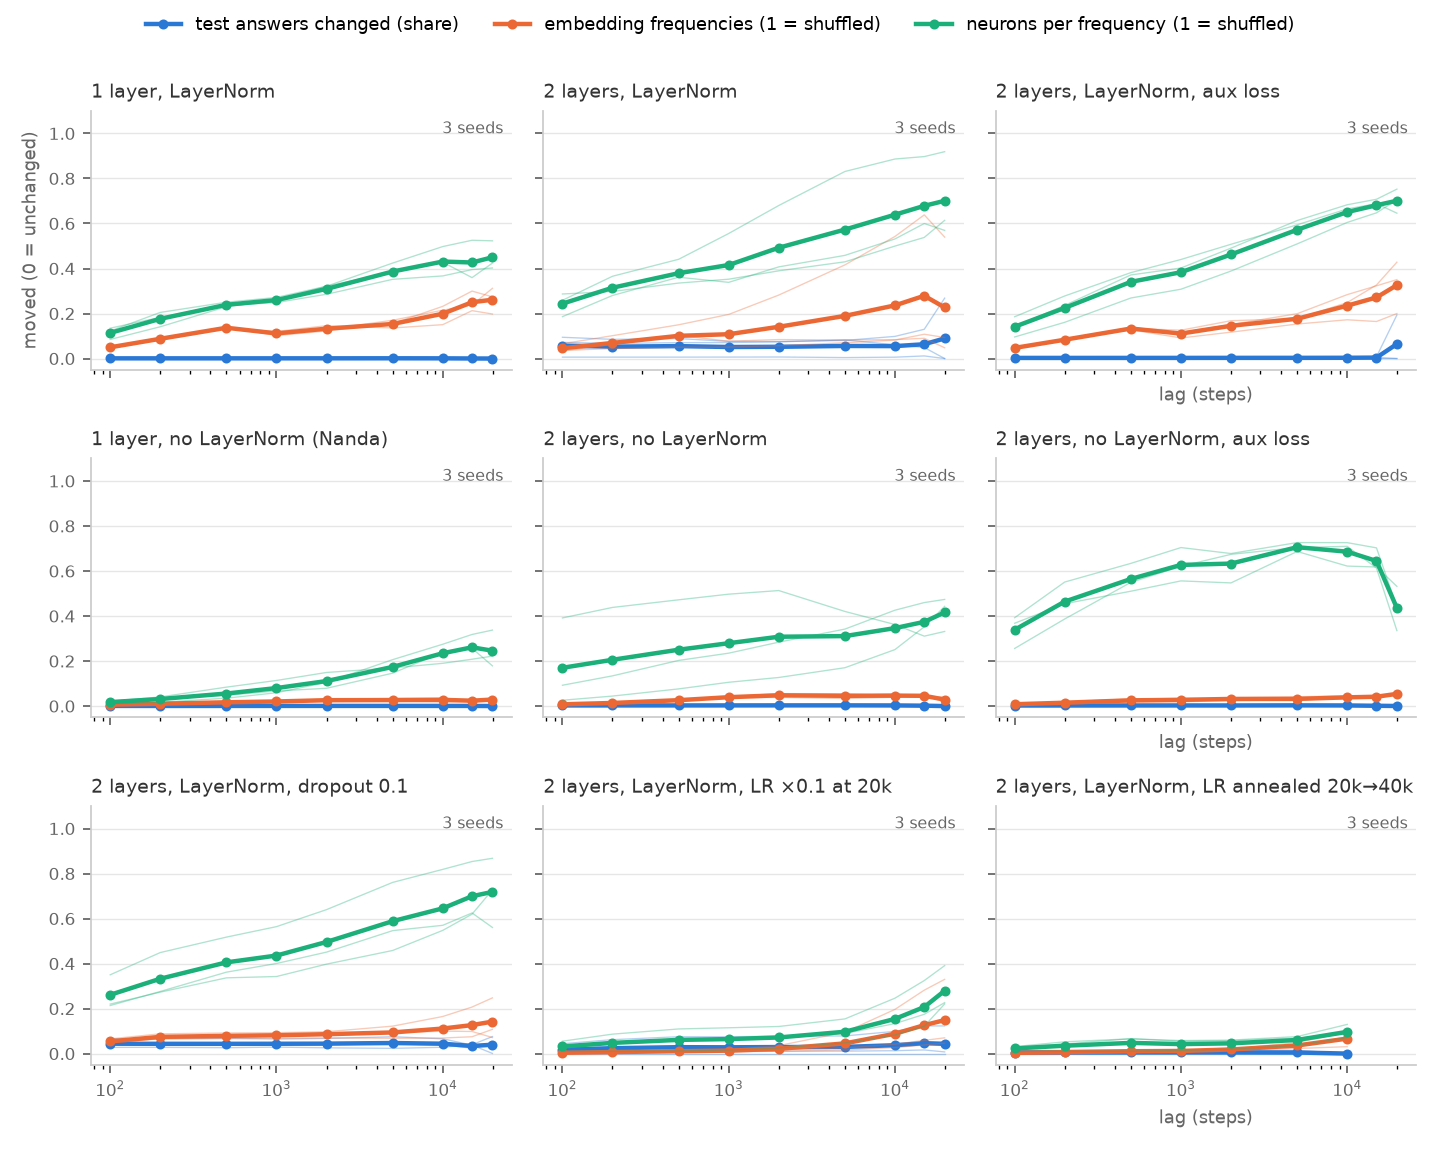
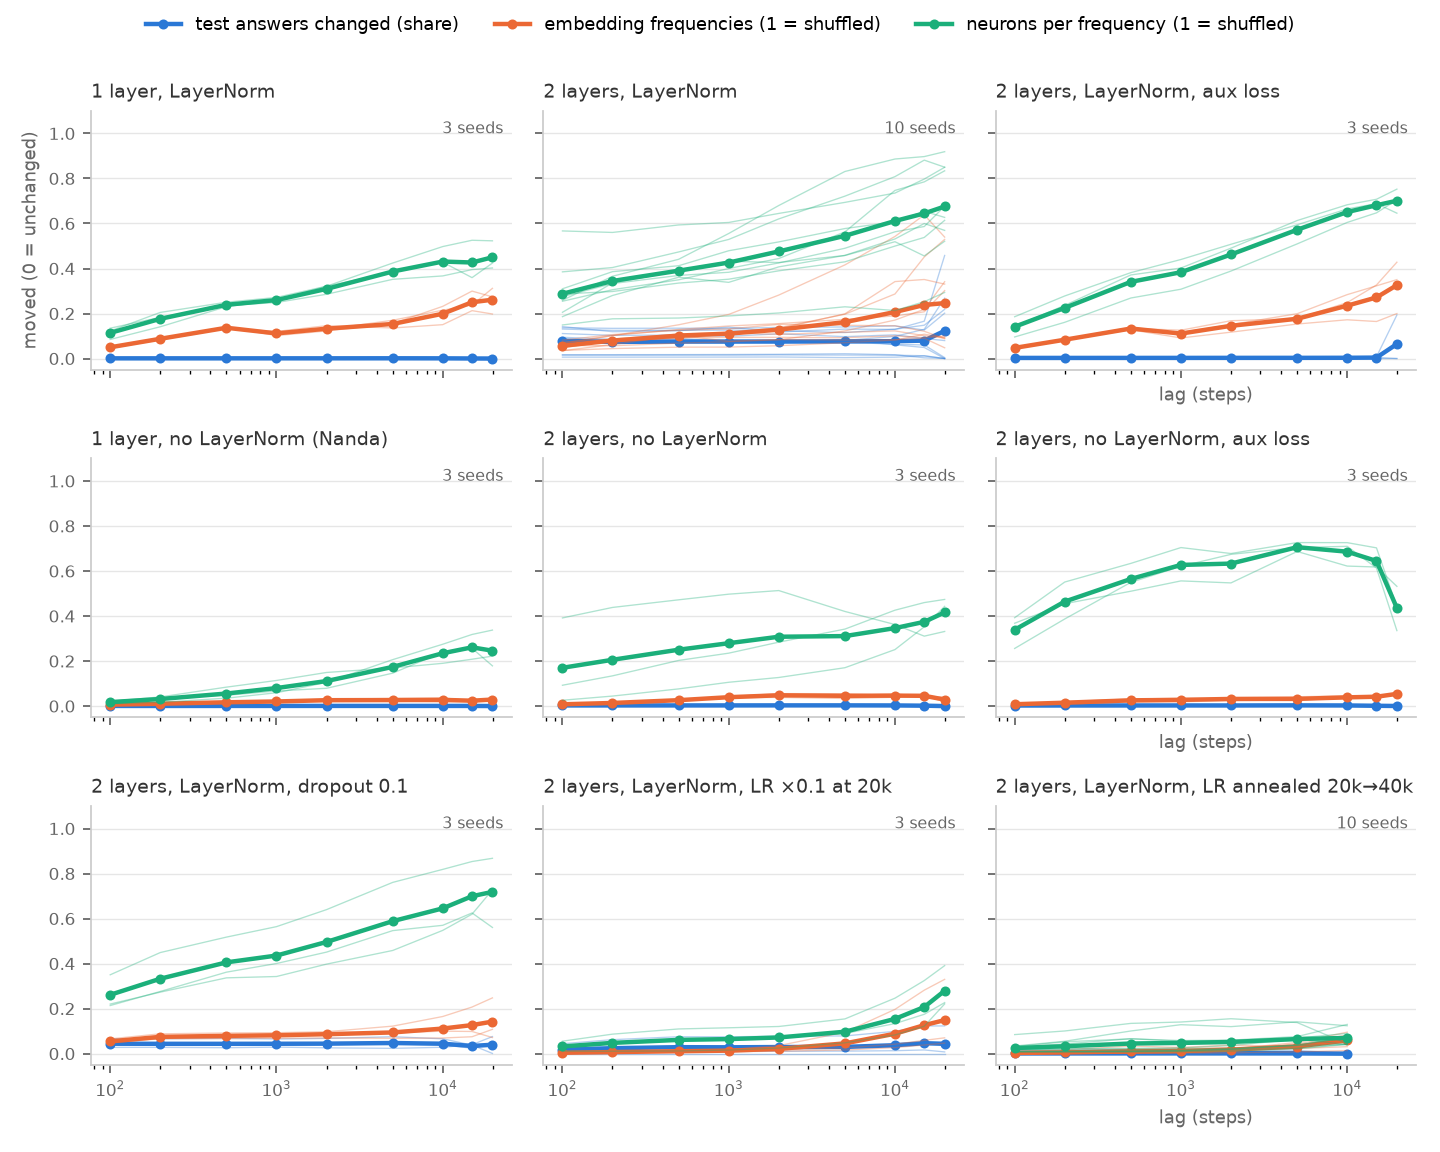
Update stability-grid figures and tail table with 10 seeds for baseline and anneal

Changed region(s): [[0.375, 0.1562, 0.6562, 0.3125], [0.7188, 0.875, 0.9375, 0.9375]]

diff --git a/figures/stability_grid/tail_stability.md b/figures/stability_grid/tail_stability.md
@@ -1,0 +1,11 @@
+| cell | seeds | tail evals >= 0.95 (mean; per seed) | seeds with a tail collapse | worst tail acc | final acc < 0.95 |
+|---|---|---|---|---|---|
+| 1 layer, LayerNorm | 3 | 1.00; 1.00 1.00 1.00 | 0 | 0.99 | 0 |
+| 2 layers, LayerNorm | 10 | 0.90; 0.90 0.93 1.00 0.87 0.97 0.91 0.98 0.82 0.82 0.75 | 9 | 0.05 | 2 |
+| 2 layers, LayerNorm, aux loss | 3 | 1.00; 1.00 1.00 1.00 | 0 | 0.99 | 0 |
+| 1 layer, no LayerNorm (Nanda) | 3 | 1.00; 1.00 1.00 1.00 | 0 | 0.98 | 0 |
+| 2 layers, no LayerNorm | 3 | 1.00; 1.00 0.99 1.00 | 1 | 0.61 | 0 |
+| 2 layers, no LayerNorm, aux loss | 3 | 0.99; 0.99 1.00 0.99 | 1 | 0.77 | 0 |
+| 2 layers, LayerNorm, dropout 0.1 | 3 | 0.93; 0.93 0.92 0.95 | 3 | 0.02 | 1 |
+| 2 layers, LayerNorm, LR ×0.1 at 20k | 3 | 0.66; 1.00 0.98 0.00 | 1 | 0.48 | 1 |
+| 2 layers, LayerNorm, LR annealed 20k→40k | 10 | 1.00; 1.00 1.00 0.98 1.00 1.00 1.00 1.00 1.00 1.00 1.00 | 1 | 0.41 | 0 |
